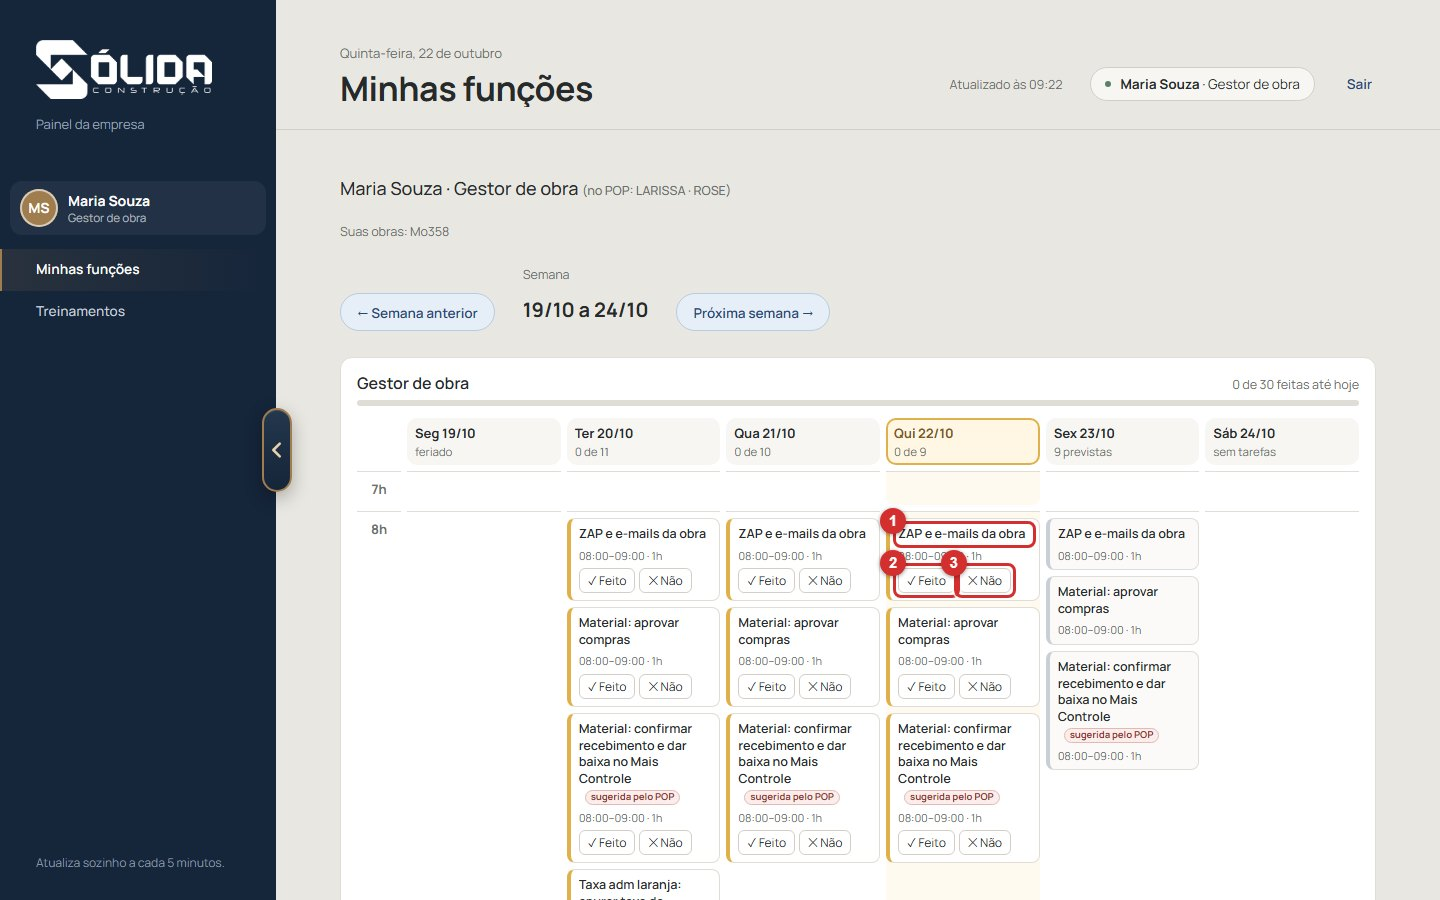
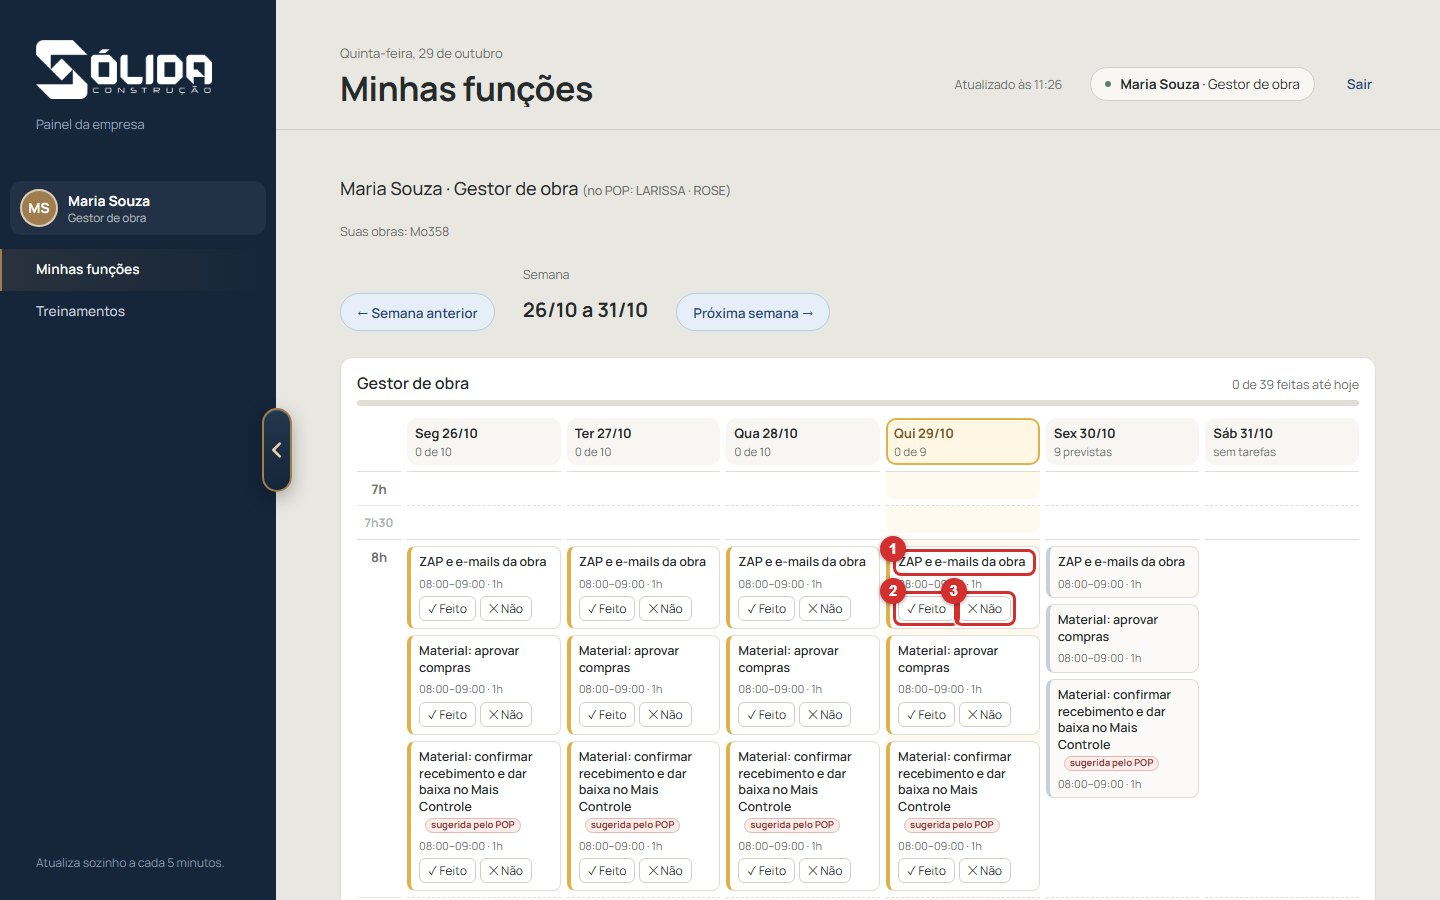
Minhas funcoes: grade em linhas de meia hora (cartao as 9h30 aparece na linha 9h30); treinamento e prints atualizados

diff --git a/app/js/telas/meudia.js b/app/js/telas/meudia.js
@@ -203,14 +203,17 @@ function funcoesSemana(ref, CFG) {
   // Grade por hora (padrão em tela larga): horas na lateral, um dia por coluna. Tarefas do mesmo horário ficam empilhadas na célula
   // (cada uma com o texto inteiro), então nada fica espremido nem cortado e os 6 dias cabem na tela sem rolar para o lado.
   // todas as horas do dia de trabalho (7h às 18h, ou mais se houver tarefa fora disso): assim dá para soltar um cartão em qualquer horário
-  const hs = colunas.flatMap(({ l }) => l.map((e) => Math.floor(e.ini / 60)));
-  const horasComTarefa = Array.from({ length: Math.max(18, ...hs) - Math.min(7, ...hs) + 1 }, (_, i) => Math.min(7, ...hs) + i);
+  // cada linha da grade é MEIA HORA (9h, 9h30, 10h…): assim um cartão às 9h30 aparece na linha das 9h30, e não junto com o das 9h
+  const ms = colunas.flatMap(({ l }) => l.map((e) => Math.floor(e.ini / 30) * 30));
+  const ini30 = Math.min(7 * 60, ...ms); const fim30 = Math.max(18 * 60 + 30, ...ms);
+  const slots = Array.from({ length: (fim30 - ini30) / 30 + 1 }, (_, i) => ini30 + i * 30);
+  const rotuloSlot = (s) => (s % 60 ? `${Math.floor(s / 60)}h30` : `${s / 60}h`);
   const vistaHoras = html`<div class="fh-grade">
     <div class="fh-canto"></div>
     ${colunas.map(({ c, l, fe }, i) => html`<div class="fq-cab fh-dia ${c === hoje ? 'hoje' : ''}"><b>${DIA_CURTO[i]} ${c.slice(8, 10)}/${c.slice(5, 7)}</b><small>${feriado(c) ? 'feriado' : l.length ? (c > hoje ? `${l.length} previstas` : `${fe} de ${l.length}`) : 'sem tarefas'}</small></div>`)}
-    ${horasComTarefa.map((h) => html`<div class="fh-hora"><b>${h}h</b></div>${colunas.map(({ c, l }) => html`<div class="fh-cel ${c === hoje ? 'hoje' : ''}" data-cel-dia="${c}" data-cel-hora="${h}">${l.filter((e) => Math.floor(e.ini / 60) === h).sort((a, b) => a.ini - b.ini).map((e) => caixaTarefa(e.t, e.d, estadoDe(e.t, e.d), hoje, null, dispo(e), { mover: true, mudou: e.mudou, dur: e.dur, dataVista: e.dia }))}</div>`)}`)}
+    ${slots.map((s) => html`<div class="fh-hora ${s % 60 ? 'fh-meia' : ''}"><b>${rotuloSlot(s)}</b></div>${colunas.map(({ c, l }) => html`<div class="fh-cel ${c === hoje ? 'hoje' : ''} ${s % 60 ? 'fh-cel-meia' : ''}" data-cel-dia="${c}" data-cel-min="${s}">${l.filter((e) => Math.floor(e.ini / 30) * 30 === s).sort((a, b) => a.ini - b.ini).map((e) => caixaTarefa(e.t, e.d, estadoDe(e.t, e.d), hoje, null, dispo(e), { mover: true, mudou: e.mudou, dur: e.dur, dataVista: e.dia }))}</div>`)}`)}
   </div>
-  <p class="legenda-semana">Para mudar o horário ou o dia de uma tarefa, segure o cartão e arraste para outra hora, no mesmo dia ou em outro dia da semana (solte na metade de cima da hora para hora cheia, ou na de baixo para "e meia"). Para mudar quanto tempo ela ocupa no dia, clique na tarefa. O que você ajustar vale para todas as semanas e é só seu. "↺ movida" volta ao quadro original.</p>`;
+  <p class="legenda-semana">Para mudar o horário ou o dia de uma tarefa, segure o cartão e arraste para outra linha da grade, no mesmo dia ou em outro dia da semana (cada linha é meia hora: 9h, 9h30, 10h…). Para mudar quanto tempo ela ocupa no dia, clique na tarefa. O que você ajustar vale para todas as semanas e é só seu. "↺ movida" volta ao quadro original.</p>`;
   const botoesVista = html`<div class="fl-vista" role="group" aria-label="Como ver as tarefas"><span class="pequeno">Ver:</span>
     <button type="button" class="botao ${vista === 'lista' ? 'on' : ''}" data-vista-fn="lista">Lista por dia</button>
     <button type="button" class="botao ${vista === 'quadro' ? 'on' : ''}" data-vista-fn="quadro">Por horário</button></div>`;
@@ -256,8 +259,7 @@ export function instalarQuadro(aoMudar) {
   document.addEventListener('drop', (e) => {
     const cel = celula(e); if (!cel || !movendo) return;
     e.preventDefault();
-    const r = cel.getBoundingClientRect(); const meia = (e.clientY - r.top) / Math.max(1, r.height) >= 0.5;
-    const ini = Number(cel.dataset.celHora) * 60 + (meia ? 30 : 0);
+    const ini = Number(cel.dataset.celMin);   // o horário é o da linha em que o cartão foi solto
     // dia da semana de origem (da tarefa) e de destino (da célula): o novo dia vale para essa ocorrência em todas as semanas
     const dowDe = (iso) => new Date(`${iso}T12:00:00`).getDay();
     const origem = dowDe(movendo.d); const destino = dowDe(cel.dataset.celDia);

diff --git a/app/js/treinamentos-slides.js b/app/js/treinamentos-slides.js
@@ -46,7 +46,7 @@ export const SUBTOPICOS = [
             dica: 'Sempre marque no mesmo dia: é mais fácil de lembrar e o seu progresso fica certo.' },
           { imagem: img('func-11-mover'), titulo: 'Mude o horário ou o dia de uma tarefa', texto: 'Quer fazer uma tarefa em outra hora, ou em outro dia da semana? Segure o cartão, arraste e solte no dia e na hora que quiser. O novo horário e o novo dia ficam valendo nas próximas semanas, só para você: ninguém mais é afetado e eles não voltam sozinhos.',
             legenda: ['O cartão que você moveu fica marcado e mostra o novo horário.', '↺ movida: clique para voltar ao horário original do quadro.'],
-            dica: 'Solte na metade de cima da hora para hora cheia (ex.: 11h) e na metade de baixo para "e meia" (11h30). Tarefa que você mudou de dia só pode ser marcada a partir do dia em que ela passou a ficar.' },
+            dica: 'Cada linha da grade é meia hora (11h, 11h30, 12h…): solte o cartão na linha do horário que você quer. Tarefa que você mudou de dia só pode ser marcada a partir do dia em que ela passou a ficar.' },
           { imagem: img('func-12-duracao'), titulo: 'Quanto tempo a tarefa ocupa no dia', texto: 'Clique em uma tarefa (no texto do cartão) para abrir uma caixinha. Nela você muda quanto tempo a tarefa ocupa no seu dia e também pode marcar feito ou não feito. O cartão fica mais alto quando a tarefa ocupa mais tempo.',
             legenda: ['O nome completo da tarefa.', '− 30 min: a tarefa passa a ocupar menos tempo.', '+ 30 min: a tarefa passa a ocupar mais tempo.', 'Situação: ✓ Feito ou ✕ Não feito, igual no cartão.'],
             dica: 'A duração que você escolher vale para essa tarefa em todas as semanas e é só sua. Para voltar ao original, use "↺ Voltar ao quadro" na caixinha.' },

diff --git a/app/css/estilo.css b/app/css/estilo.css
@@ -2122,3 +2122,8 @@ body.sem-login .nav-handle { display: none; }
 .or-ad-nao { background: #F8E1DF; color: #9B3A33; }
 .or-val { margin: 0; display: flex; flex-direction: column; gap: 2px; font-size: 13px; color: var(--muted); }
 .or-card footer { margin-top: auto; display: flex; gap: 8px; }
+
+/* grade por meia hora: as linhas de "e meia" são mais baixas e discretas */
+.fh-cel { min-height: 28px; }
+.fh-hora.fh-meia { opacity: .55; font-size: 12px; }
+.fh-cel-meia { border-top-style: dashed; }
